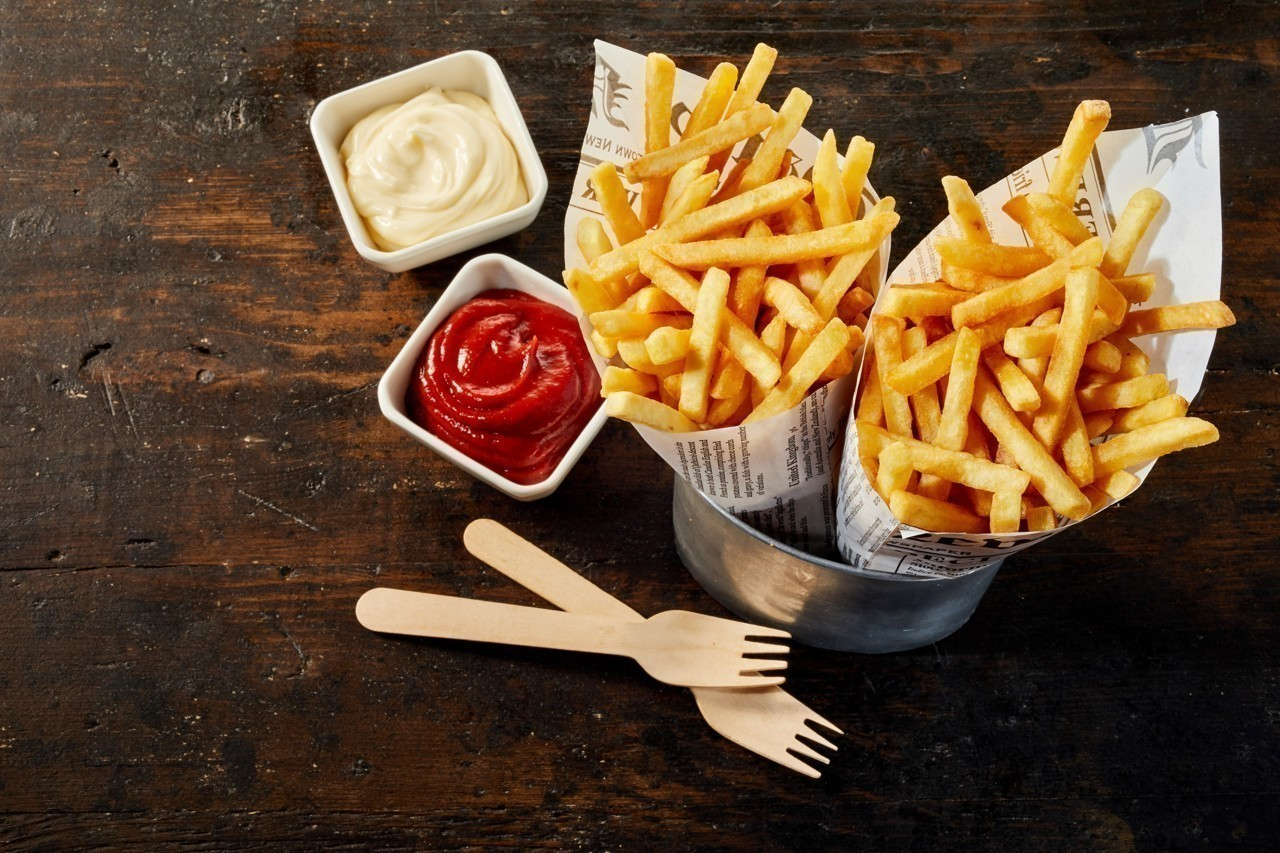
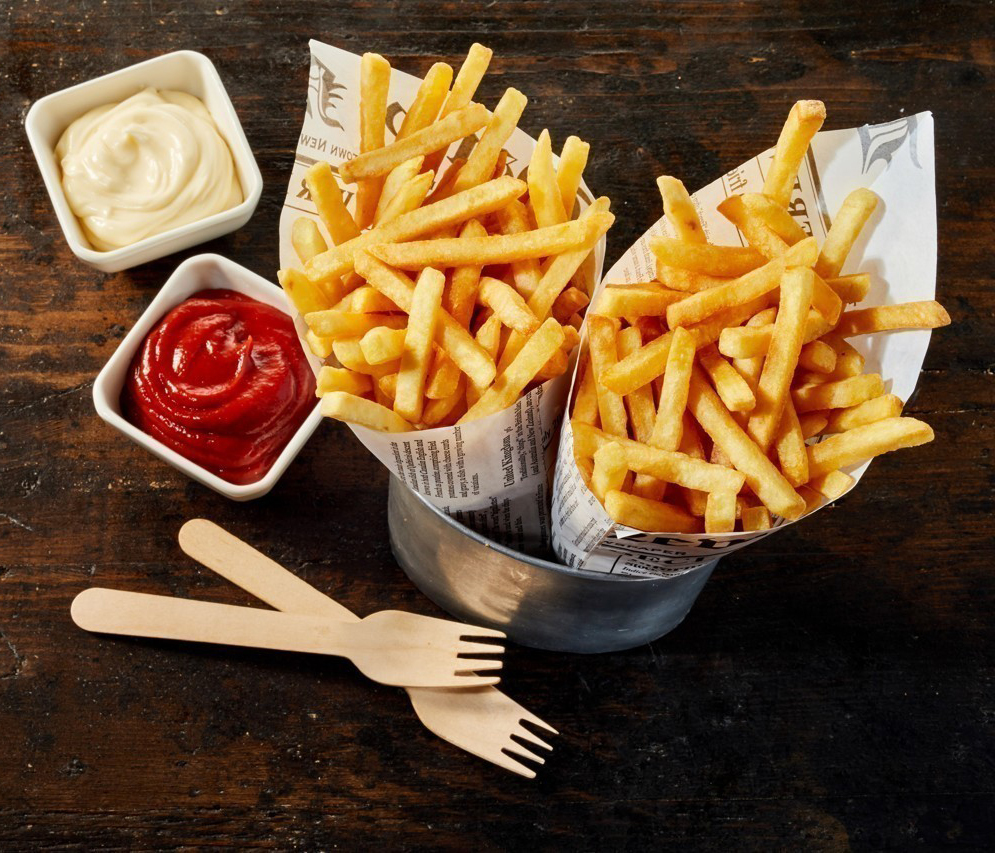
Added additional demo content

diff --git a/lib/views/search_view.dart b/lib/views/search_view.dart
@@ -1,9 +1,7 @@
 import 'package:flutter/material.dart';
 import 'package:google_maps_flutter/google_maps_flutter.dart';
-import 'package:mapview/constants/routes.dart';
 import 'package:mapview/constants/search.dart';
 import 'package:mapview/utilities/here_we_r_icons_icons.dart';
-import 'package:mapview/views/google_map_view.dart';
 import 'dart:math' as math;
 
 import 'package:mapview/views/search_results_view.dart';
@@ -65,7 +63,7 @@ class _SearchViewState extends State<SearchView> {
             child: Padding(
               padding: const EdgeInsets.all(10),
               child: Text(headerText,
-                  style: const TextStyle(fontWeight: FontWeight.bold)),
+                  style: TextStyle(fontWeight: FontWeight.bold, color: Theme.of(context).textTheme.bodyMedium?.color ?? Colors.white)),
             )),
       ),
     );
@@ -139,12 +137,14 @@ class _SearchViewState extends State<SearchView> {
                             children: [
                               CircleAvatar(
                                   backgroundColor:
-                                      const Color.fromARGB(255, 228, 228, 249),
+                                      Theme.of(context)
+                                              .primaryColorLight
+                                              ,
                                   radius: 20,
                                   child: CircleAvatar(
                                       radius: 12,
-                                      backgroundColor: const Color.fromARGB(
-                                          255, 228, 228, 249),
+                                      backgroundColor: Theme.of(context)
+                                              .primaryColorLight,
                                       foregroundImage:
                                           Image.asset('assets/images/' + key)
                                               .image)),
@@ -166,9 +166,8 @@ class _SearchViewState extends State<SearchView> {
         SliverList(
             delegate: SliverChildListDelegate([
           SizedBox(
-              height: 700,
               child: Padding(
-                  padding: const EdgeInsets.all(20),
+                  padding: const EdgeInsets.only(top: 20, left: 20, right:20),
                   child: Column(
                       crossAxisAlignment: CrossAxisAlignment.start,
                       children: rightnow.keys.map((key) {
@@ -196,8 +195,83 @@ class _SearchViewState extends State<SearchView> {
                                   left: 5,
                                   child: Text(rightnow[key]!.first,
                                       textScaleFactor: 1.2,
-                                      style: TextStyle(
+                                      style: const TextStyle(
+                                        color:  Colors.white,
+                                      ))),
+                              Positioned(
+                                  bottom: 5,
+                                  right: 5,
+                                  child: Container(
+                                      decoration: BoxDecoration(
+                                          borderRadius:
+                                              BorderRadius.circular(50),
+                                          color: Theme.of(context)
+                                              .primaryColorLight
+                                              .withOpacity(0.8)),
+                                      child: IconButton(
+                                        icon: const Icon(
+                                          HereWeRIcons.icons8_place_marker_64,
+                                        ),
                                         color: Colors.white,
+                                        onPressed: () {
+                                          Navigator.pop(
+                                              context, const CameraPosition(
+                                                        target: LatLng(
+                                                            51.509520181121914,
+                                                            -0.17187260091304776),
+                                                        zoom: 18,
+                                                      )
+                                              // MaterialPageRoute(
+                                              //     builder: (context, "hello") 
+                                                  // =>
+                                                  //     MapView(
+                                                  //         eventPosition:
+                                                              
+                                                      );
+                                        },
+                                      )))
+                            ]),
+                            const SizedBox(
+                              height: 20,
+                            )
+                          ],
+                        );
+                      }).toList())))
+        ])), makeHeader(context, "COMING UP"),
+        SliverList(
+            delegate: SliverChildListDelegate([
+          SizedBox(
+              child: Padding(
+                  padding: const EdgeInsets.all(20),
+                  child: Column(
+                      crossAxisAlignment: CrossAxisAlignment.start,
+                      children: comingup.keys.map((key) {
+                        return Column(
+                          children: [
+                            Stack(children: [
+                              ClipRRect(
+                                  borderRadius: const BorderRadius.all(
+                                      Radius.circular(10)),
+                                  child: Container(
+                                      foregroundDecoration: const BoxDecoration(
+                                        gradient: LinearGradient(colors: [
+                                          Colors.black,
+                                          Colors.transparent
+                                        ], begin: Alignment.bottomRight),
+                                      ),
+                                      child: Image.asset(
+                                        'assets/images/sample/' + key,
+                                        width: 500,
+                                        height: 150,
+                                        fit: BoxFit.cover,
+                                      ))),
+                              Positioned(
+                                  bottom: 5,
+                                  left: 5,
+                                  child: Text(comingup[key]!.first,
+                                      textScaleFactor: 1.2,
+                                      style: const TextStyle(
+                                        color:  Colors.white,
                                       ))),
                               Positioned(
                                   bottom: 5,
@@ -247,8 +321,8 @@ class _SearchViewState extends State<SearchView> {
         sliverSearchBar(),
         SliverList(
             delegate: SliverChildListDelegate([
-          SizedBox(
-            height: 700,
+          SingleChildScrollView(
+            // height: 700,
             child: Padding(
                 padding: const EdgeInsets.all(20),
                 child: SearchResultsView(

diff --git a/lib/views/user_profile_view.dart b/lib/views/user_profile_view.dart
@@ -29,7 +29,10 @@ class _UserProfileViewState extends State<UserProfileView> {
                 future: FirebaseCloudDatabase().getUser(widget.username),
                 builder: (context, AsyncSnapshot<QuerySnapshot<Map<String, dynamic>>> snapshot) {
                   if (snapshot.hasData) {
-                    return Column(children: [CircleAvatar(
+                    return Column(
+                      children: [Center(
+                        child:
+                      CircleAvatar(
                         radius: 75,
                         backgroundColor:
                             const Color.fromARGB(255, 192, 229, 228),
@@ -41,22 +44,24 @@ class _UserProfileViewState extends State<UserProfileView> {
                                   "?alt=media")
                           : Image.asset('assets/images/defaultprofile.png')
                               .image),
-                              const SizedBox(height: 50),
-                              ]);
+                             
+                    ), const SizedBox(height: 50),]);
                   } else {
-                    return const CircleAvatar(
+                    return const Center(child: CircleAvatar(
                       radius: 75,
                       backgroundColor: Color.fromARGB(255, 192, 229, 228),
-                    );
+                    ));
                   }
                 }),
-                Positioned(
-                      child: Image.asset("assets/images/profileborder.png"),
-                      width: 150,
+                Center(
+                      child: Image.asset("assets/images/profileborder.png", height: 150, width: 150,),
+                       
                     ),
                   ],
                 ),
                 const SizedBox(height: 50),
+                Text("Music is life ✌🏻",),
+
                 
                 
               ],

diff --git a/lib/widgets/markers_widgets/demo_content_view.dart b/lib/widgets/markers_widgets/demo_content_view.dart
@@ -22,14 +22,15 @@ class DemoContentViewState extends State<DemoContentView> {
             child: Padding(
               padding: const EdgeInsets.all(10),
               child: Text(headerText,
-                  style: const TextStyle(fontWeight: FontWeight.bold)),
+                  style: TextStyle(fontWeight: FontWeight.bold, color: Theme.of(context).textTheme.bodyMedium?.color ?? Colors.white)),
             )),
       ),
     );
   }
 
   static saladMenu() {
-    return Column(children: const [
+    return Padding(padding: EdgeInsets.symmetric(vertical: 20),
+      child: Column(children: const [
       Text("Salads:"),
       Text("Chicken Caesar - £12"),
       Text("Shrimp Caesar - £15"),
@@ -40,7 +41,7 @@ class DemoContentViewState extends State<DemoContentView> {
       Text("Sandwiches:"),
       Text("Tuna roll - £9"),
       Text("French Dip - £12")
-    ]);
+    ]));
   }
 
   @override
@@ -56,8 +57,10 @@ class DemoContentViewState extends State<DemoContentView> {
           items: foodImgList
               .map((item) => Container(
                     child: Center(
-                        child:
-                            Image.asset(item, fit: BoxFit.cover, height: 300)),
+                        child: 
+                            Image.asset(
+                              item,
+                              fit: BoxFit.cover, height: 300)),
                   ))
               .toList(),
         )),

diff --git a/lib/constants/custom_theme.dart b/lib/constants/custom_theme.dart
@@ -1,0 +1,23 @@
+import 'package:flutter/material.dart';
+
+const MaterialColor mcgpalette0 = MaterialColor(_mcgpalette0PrimaryValue, <int, Color>{
+  50: Color(0xFF7DBCF6),
+  100: Color(0xFF3697F1),
+  200: Color(0xFF107CDF),
+  300: Color(0xFF0B579C),
+  400: Color(0xFF094780),
+  500: Color(_mcgpalette0PrimaryValue),
+  600: Color(0xFF052746),
+  700: Color(0xFF03172A),
+  800: Color(0xFF01070D),
+  900: Color(0xFF000000),
+});
+const int _mcgpalette0PrimaryValue = 0xFF073763;
+
+const MaterialColor mcgpalette0Accent = MaterialColor(_mcgpalette0AccentValue, <int, Color>{
+  100: Color(0xFF6AB8FF),
+  200: Color(_mcgpalette0AccentValue),
+  400: Color(0xFF00529D),
+  700: Color(0xFF05447E),
+});
+const int _mcgpalette0AccentValue = 0xFF0487FF;

diff --git a/lib/main.dart b/lib/main.dart
@@ -19,13 +19,16 @@ void main() async {
   runApp(
     MaterialApp(
         theme: ThemeData(
+          primaryColorLight: Color.fromARGB(255, 154, 189, 253),
           colorScheme:
+          
               ColorScheme.fromSeed(seedColor: Color.fromARGB(255, 0, 49, 141)),
           // colorScheme: ColorScheme.fromSeed(seedColor: Color.fromARGB(255, 0, 6, 126)),
           // primarySwatch: Colors.yellow,
           brightness: Brightness.light,
         ),
         darkTheme: ThemeData(
+          primaryColorLight: Color.fromARGB(255, 9, 45, 116),
           brightness: Brightness.dark,
           // primarySwatch: Colors.indigo,
           colorScheme: ColorScheme.fromSeed(

diff --git a/lib/constants/restaurant_carousel.dart b/lib/constants/restaurant_carousel.dart
@@ -1,8 +1,16 @@
 const List<String> foodImgList = [
-      'assets/images/food/burger.jpeg',
-      'assets/images/food/frites.jpeg',
-      'assets/images/food/kebab.jpeg',
+      'assets/images/food/csalad.jpg',
+      'assets/images/food/sand.jpg',
+      'assets/images/food/frites.jpg',
 ];
+
+const List<String> fastFoodImgList = [
+      'assets/images/food/csalad.jpg',
+      'assets/images/food/sand.jpg',
+      'assets/images/food/frites.jpg',
+];
+
+
 const Map<String, String> DrinksImgList = {
       'assets/images/food/beer.jpeg' : 'Beer',
       'assets/images/food/soft.jpeg' : 'Softs',

diff --git a/lib/widgets/floating_menu.dart b/lib/widgets/floating_menu.dart
@@ -29,7 +29,8 @@ enum MenuAction {
 Widget getMenu(BuildContext context, StreamController _controller) {
   return Padding(
     padding: const EdgeInsets.only(left: 30, top: 60, right: 10),
-    child: Column(
+    child: 
+    Column(
       mainAxisAlignment: MainAxisAlignment.spaceBetween,
       children: [
         Row(
@@ -155,8 +156,8 @@ Widget getMenu(BuildContext context, StreamController _controller) {
           ],
         ),
       ],
-    ),
-  );
+    
+  ));
 }
 
 const textStyle = TextStyle(color: Colors.white, fontWeight: FontWeight.bold);

diff --git a/lib/widgets/markers_widgets/marker_on_tap.dart b/lib/widgets/markers_widgets/marker_on_tap.dart
@@ -43,7 +43,7 @@ markerOnTapWidget(MarkerModel marker, Location location, BuildContext context) {
                             color:
                                 Theme.of(context).textTheme.bodyMedium!.color,
                             height: 25),
-                        SizedBox(
+                        const SizedBox(
                           width: 10,
                         ),
                         Row(

diff --git a/lib/constants/search.dart b/lib/constants/search.dart
@@ -12,10 +12,23 @@ Map<String, List<String>> rightnow = {
     "Sebastian North",
     
   ],
-  "rollers.jpg": [
-    "The Rollers"
-  ],
   "femalepop.jpg": [
     "Sandra Spears"
+  ],
+  "dj.jpg": [
+    'DJ Smiley',
+  ]
+};
+
+Map<String, List<String>> comingup = {
+  "rollers.jpg": [
+    "The Rollers",
+    
+  ],
+  "singer2.jpg": [
+    "Roxanne"
+  ],
+  "blonde.jpg": [
+    "Cindy Nash"
   ]
 };
